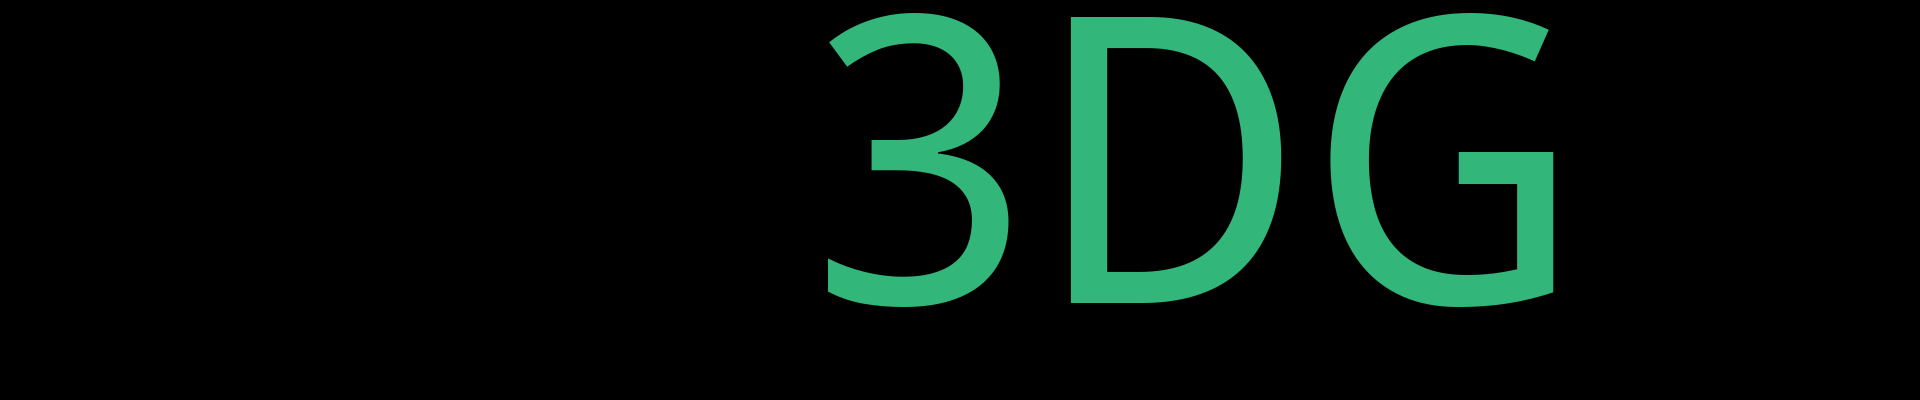
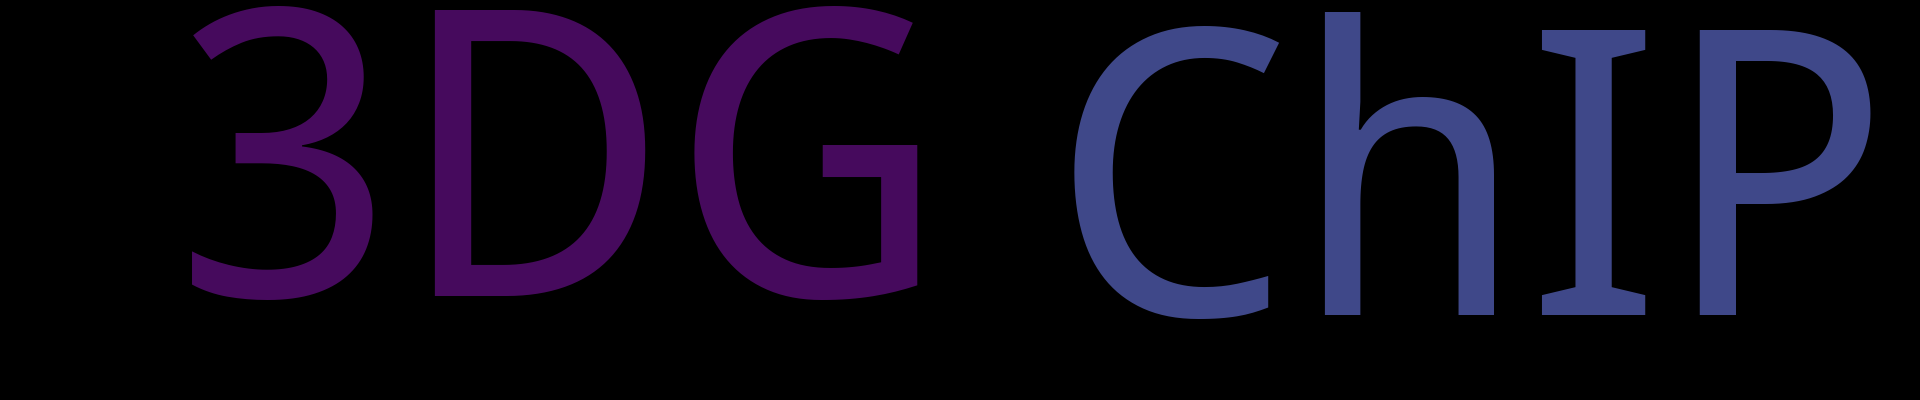
Update from Github Action

Changed region(s): [[0.0938, 0.0, 1.0, 0.81]]

diff --git a/README.md b/README.md
@@ -1,7 +1,7 @@
 
 <p align='center'>
     <img src="https://badgen.net/github/issues/biotmp//chatgpt"/>
-    <img src="https://badgen.net/badge/last-commit/2023-02-08 07:26:28"/>
+    <img src="https://badgen.net/badge/last-commit/2023-02-08 07:27:13"/>
     <img src="https://badgen.net/github/forks/biotmp//chatgpt"/>
     <img src="https://badgen.net/github/stars/biotmp//chatgpt"/>
     <img src="https://badgen.net/github/watchers/biotmp//chatgpt"/>
@@ -15,6 +15,14 @@
 <summary>3DG	[1篇]</summary>
 
 - 2023-02-08 [chatgpt API](https://github.com/biotmp/chatgpt/issues/1) 
+
+
+</details>
+            
+<details open>
+<summary>ChIP	[1篇]</summary>
+
+- 2023-02-08 [ChIP](https://github.com/biotmp/chatgpt/issues/2) 
 
 
 </details>
